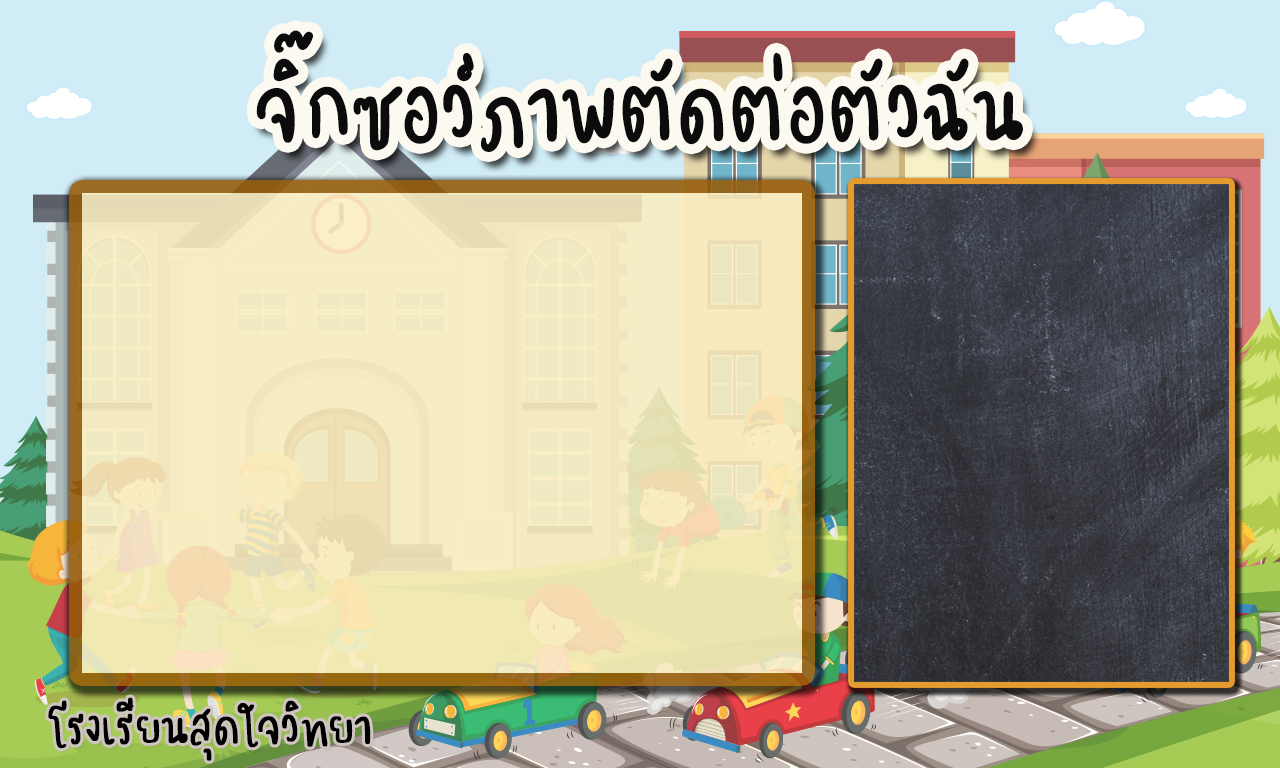
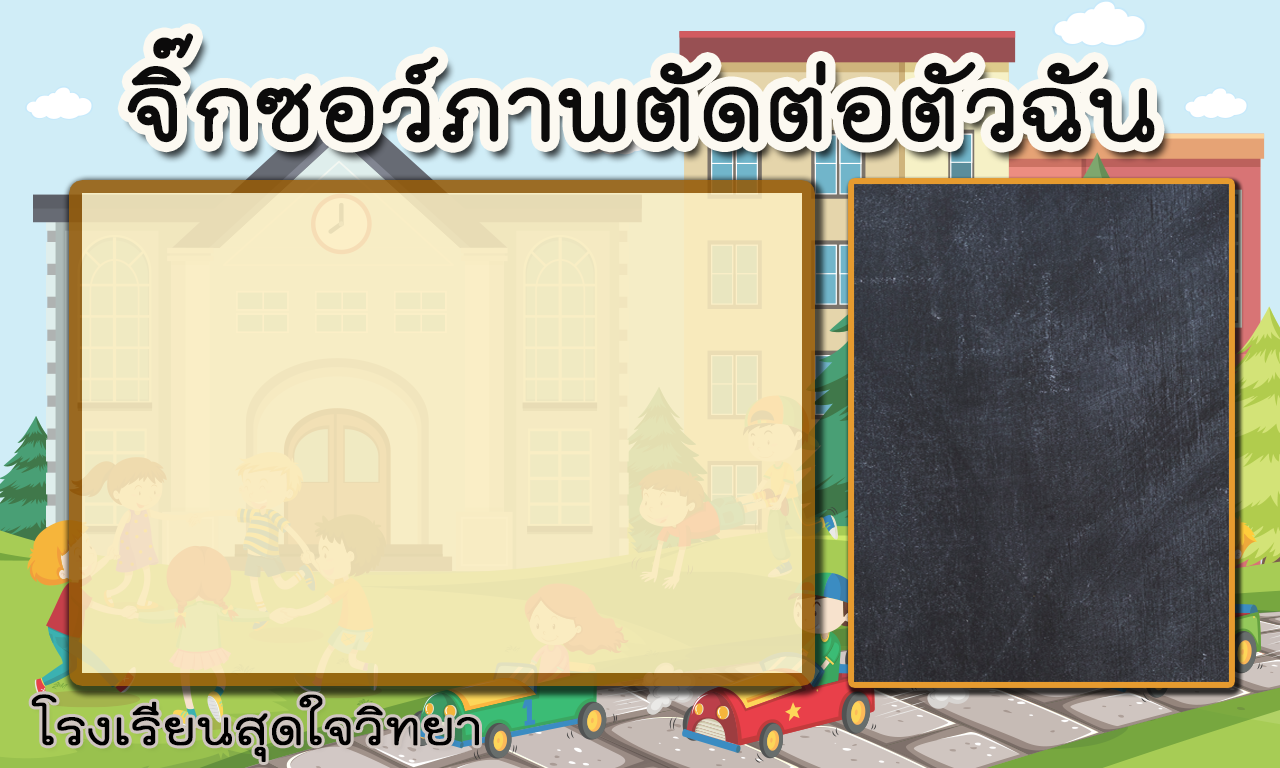
chage game bg

Changed region(s): [[0.0938, 0.0312, 0.9375, 0.2188], [0.0, 0.9062, 0.375, 1.0]]

diff --git a/data.js b/data.js
@@ -1,1 +1,1 @@
-{"project": [null,null,[[0,true,false,false,false,false,false,false,false,false],[1,false,true,true,true,true,true,true,false,false],[2,false,true,true,false,true,true,true,true,true],[3,false,true,true,true,true,true,true,true,false]],[["t0",3,false,[],0,0,null,[["Default",5,false,1,0,false,332389915826523,[["images/bggame-sheet0.png",623556,0,0,1280,768,1,0,0,[],[],1]]]],[],false,false,888266107767164,[],null],["t1",3,false,[],0,0,null,[["Default",5,false,1,0,false,229884536046243,[["images/jigsaw-sheet0.png",59582,0,0,436,422,1,0.5,0.5,[],[-0.3876149952411652,-0.3838860094547272,0,-0.3886260092258453,0.2477059960365295,-0.2393360137939453,0.3784400224685669,0,0.3577979803085327,0.3530809879302979,0,0.3696680068969727,-0.3325690031051636,0.3270140290260315,-0.2637609839439392,0],0]]]],[],false,false,863295889684278,[],null],["t2",3,false,[],0,0,null,[["Default",5,false,1,0,false,265789542132850,[["images/pic-sheet0.png",73572,0,0,720,480,1,0,0,[["Imagepoint 1",0.5,0.5]],[],1]]]],[],false,false,398190928270537,[],null],["t3",1,false,[567485115298409,244408598076211],1,0,["images/canvas.png",168,3],null,[["DragDrop",4,919386414831374]],false,false,267409529616762,[],null],["t4",2,false,[],0,0,["images/particles.png",1448,0],null,[],false,false,972450819936154,[],null],["t5",0,false,[],0,0,null,null,[],false,false,926822867017334,[],null,[0,0,0,1,1,600,600,10000,1]]],[],[["Layout 1",1280,768,false,"Event sheet 1",317441235527641,[["bg",0,578107584429891,true,[255,255,255],false,1,1,1,false,false,1,0,0,[[[0,0,0,1280,768,0,0,1,0,0,0,0,[]],0,0,[],[],[0,"Default",0,1]]],[]],["game",1,278427726210959,true,[255,255,255],true,1,1,1,false,false,1,0,0,[[[1049,432,0,384.6305236816406,372.0609130859375,0,0,1,0.5,0.5,0,0,[]],1,1,[],[],[0,"Default",0,1]],[[82,193,0,720,480,0,0,1,0,0,0,0,[]],2,2,[],[],[0,"Default",0,1]],[[838,-226,0,240,240,0,0,1,0,0,0,0,[]],3,3,[[0],[0]],[[0,1]],[0,0,0]],[[631,-60,0,128,128,0,0,1,0,0.5,0,0,[]],4,4,[],[],[50,360,1,400,50,100,0,0,0,0,0,0,-150,0,0,800,0,0,1]]],[]]],[],[]]],[["Event sheet 1",[[1,"num",0,0,false,false,484218152803947,false],[1,"startY",0,0,false,false,769374700921660,false],[1,"startX",0,0,false,false,325927587525086,false],[0,null,false,null,803033900714681,[[-1,5,null,1,false,false,false,757634853594792,false]],[[3,6,null,855240727496573,false],[4,7,null,779177534188415,false],[-1,8,null,667487445942523,false,[[0,[0,2]]]],[2,9,null,151485048438837,false,[[3,0]]],[1,10,null,329925706288422,false]],[[0,null,false,null,621166894457610,[[-1,11,null,0,true,false,false,161808111676392,false,[[1,[2,""]],[0,[0,0]],[0,[0,5]]]]],[[-1,12,null,685260417379472,false,[[4,3],[5,[2,"game"]],[0,[4,[20,2,13,false,null],[6,[0,240],[8,[19,14],[0,3]]]]],[0,[4,[20,2,15,false,null],[6,[0,240],[19,16,[[7,[19,14],[0,3]]]]]]]]],[3,17,null,756858319962644,false,[[5,[2,"game"]]]],[3,18,null,466494017104375,false,[[0,[4,[0,880],[19,19,[[0,100]]]]],[0,[4,[0,220],[19,19,[[0,210]]]]]]],[3,20,null,635229859605080,false,[[10,0],[7,[19,14]]]]]]]],[0,null,false,null,741613503384959,[[3,21,"DragDrop",1,false,false,false,726751357302335,false]],[[-1,22,null,773407567207414,false,[[11,"startX"],[7,[20,3,23,false,null]]]],[-1,22,null,560618447466352,false,[[11,"startY"],[7,[20,3,24,false,null]]]],[3,25,null,611612006950892,false]]],[0,null,false,null,967257820801414,[[3,26,"DragDrop",1,false,false,false,514915044384333,false]],[],[[0,null,false,null,653560241149262,[[-1,27,null,0,false,false,false,516035989145538,false,[[7,[19,28,[[5,[4,[20,2,13,false,null],[6,[0,240],[8,[21,3,false,null,0],[0,3]]]],[20,3,23,false,null]]]]],[8,3],[7,[0,30]]]],[-1,27,null,0,false,false,false,562821136595246,false,[[7,[5,[19,28,[[7,[21,3,false,null,0],[0,2]]]],[20,3,24,false,null]]],[8,3],[7,[0,30]]]],[3,29,null,0,false,true,false,267031548115053,false,[[10,1]]]],[[3,18,null,420995169914125,false,[[0,[4,[20,2,13,false,null],[6,[0,240],[8,[21,3,false,null,0],[0,3]]]]],[0,[4,[20,2,15,false,null],[6,[0,240],[19,16,[[7,[21,3,false,null,0],[0,3]]]]]]]]],[3,30,null,171525185204412,false,[[10,1],[3,1]]],[-1,31,null,218089129009009,false,[[11,"num"],[7,[0,1]]]]]],[0,null,false,null,862575775775572,[[-1,32,null,0,false,false,false,167651039337809,false]],[[3,18,null,376021428677996,false,[[0,[23,"startX"]],[0,[23,"startY"]]]]]]]],[0,null,false,null,816762815174112,[[3,21,"DragDrop",1,false,false,false,361256418661930,false],[3,29,null,0,false,false,false,667881972358739,false,[[10,1]]]],[[3,33,"DragDrop",922402493854819,false]]],[0,null,false,null,309666066212423,[[-1,34,null,0,false,false,false,741181620200860,false,[[11,"num"],[8,0],[7,[0,6]]]],[-1,35,null,0,false,false,false,231814082286742,false]],[[2,36,null,901896167434460,false,[[4,4],[5,[2,"game"]],[7,[0,1]]]],[5,37,null,793884111743998,false,[[2,["5c3c9e2f9c065",false]],[3,0],[0,[0,0]],[1,[2,""]]]]]]]]],[["5c3c9e2f9c065.m4a",56881],["5c3c9e2f9c065.ogg",65908]],"media/",false,1280,768,4,true,true,true,"1.0.0.0",true,false,4,0,6,false,true,1,true,"New project",0,[]]}
+{"project": [null,null,[[0,true,false,false,false,false,false,false,false,false],[1,false,true,true,true,true,true,true,false,false],[2,false,true,true,false,true,true,true,true,true],[3,false,true,true,true,true,true,true,true,false]],[["t0",3,false,[],0,0,null,[["Default",5,false,1,0,false,332389915826523,[["images/bggame-sheet0.png",634274,0,0,1280,768,1,0,0,[],[],1]]]],[],false,false,888266107767164,[],null],["t1",3,false,[],0,0,null,[["Default",5,false,1,0,false,229884536046243,[["images/jigsaw-sheet0.png",59582,0,0,436,422,1,0.5,0.5,[],[-0.3876149952411652,-0.3838860094547272,0,-0.3886260092258453,0.2477059960365295,-0.2393360137939453,0.3784400224685669,0,0.3577979803085327,0.3530809879302979,0,0.3696680068969727,-0.3325690031051636,0.3270140290260315,-0.2637609839439392,0],0]]]],[],false,false,863295889684278,[],null],["t2",3,false,[],0,0,null,[["Default",5,false,1,0,false,265789542132850,[["images/pic-sheet0.png",73572,0,0,720,480,1,0,0,[["Imagepoint 1",0.5,0.5]],[],1]]]],[],false,false,398190928270537,[],null],["t3",1,false,[567485115298409,244408598076211],1,0,["images/canvas.png",168,3],null,[["DragDrop",4,919386414831374]],false,false,267409529616762,[],null],["t4",2,false,[],0,0,["images/particles.png",1448,0],null,[],false,false,972450819936154,[],null],["t5",0,false,[],0,0,null,null,[],false,false,926822867017334,[],null,[0,0,0,1,1,600,600,10000,1]]],[],[["Layout 1",1280,768,false,"Event sheet 1",317441235527641,[["bg",0,578107584429891,true,[255,255,255],false,1,1,1,false,false,1,0,0,[[[0,0,0,1280,768,0,0,1,0,0,0,0,[]],0,0,[],[],[0,"Default",0,1]]],[]],["game",1,278427726210959,true,[255,255,255],true,1,1,1,false,false,1,0,0,[[[1049,432,0,384.6305236816406,372.0609130859375,0,0,1,0.5,0.5,0,0,[]],1,1,[],[],[0,"Default",0,1]],[[82,193,0,720,480,0,0,1,0,0,0,0,[]],2,2,[],[],[0,"Default",0,1]],[[838,-226,0,240,240,0,0,1,0,0,0,0,[]],3,3,[[0],[0]],[[0,1]],[0,0,0]],[[631,-60,0,128,128,0,0,1,0,0.5,0,0,[]],4,4,[],[],[50,360,1,400,50,100,0,0,0,0,0,0,-150,0,0,800,0,0,1]]],[]]],[],[]]],[["Event sheet 1",[[1,"num",0,0,false,false,484218152803947,false],[1,"startY",0,0,false,false,769374700921660,false],[1,"startX",0,0,false,false,325927587525086,false],[0,null,false,null,803033900714681,[[-1,5,null,1,false,false,false,757634853594792,false]],[[3,6,null,855240727496573,false],[4,7,null,779177534188415,false],[-1,8,null,667487445942523,false,[[0,[0,2]]]],[2,9,null,151485048438837,false,[[3,0]]],[1,10,null,329925706288422,false]],[[0,null,false,null,621166894457610,[[-1,11,null,0,true,false,false,161808111676392,false,[[1,[2,""]],[0,[0,0]],[0,[0,5]]]]],[[-1,12,null,685260417379472,false,[[4,3],[5,[2,"game"]],[0,[4,[20,2,13,false,null],[6,[0,240],[8,[19,14],[0,3]]]]],[0,[4,[20,2,15,false,null],[6,[0,240],[19,16,[[7,[19,14],[0,3]]]]]]]]],[3,17,null,756858319962644,false,[[5,[2,"game"]]]],[3,18,null,466494017104375,false,[[0,[4,[0,880],[19,19,[[0,100]]]]],[0,[4,[0,220],[19,19,[[0,210]]]]]]],[3,20,null,635229859605080,false,[[10,0],[7,[19,14]]]]]]]],[0,null,false,null,741613503384959,[[3,21,"DragDrop",1,false,false,false,726751357302335,false]],[[-1,22,null,773407567207414,false,[[11,"startX"],[7,[20,3,23,false,null]]]],[-1,22,null,560618447466352,false,[[11,"startY"],[7,[20,3,24,false,null]]]],[3,25,null,611612006950892,false]]],[0,null,false,null,967257820801414,[[3,26,"DragDrop",1,false,false,false,514915044384333,false]],[],[[0,null,false,null,653560241149262,[[-1,27,null,0,false,false,false,516035989145538,false,[[7,[19,28,[[5,[4,[20,2,13,false,null],[6,[0,240],[8,[21,3,false,null,0],[0,3]]]],[20,3,23,false,null]]]]],[8,3],[7,[0,30]]]],[-1,27,null,0,false,false,false,562821136595246,false,[[7,[5,[19,28,[[7,[21,3,false,null,0],[0,2]]]],[20,3,24,false,null]]],[8,3],[7,[0,30]]]],[3,29,null,0,false,true,false,267031548115053,false,[[10,1]]]],[[3,18,null,420995169914125,false,[[0,[4,[20,2,13,false,null],[6,[0,240],[8,[21,3,false,null,0],[0,3]]]]],[0,[4,[20,2,15,false,null],[6,[0,240],[19,16,[[7,[21,3,false,null,0],[0,3]]]]]]]]],[3,30,null,171525185204412,false,[[10,1],[3,1]]],[-1,31,null,218089129009009,false,[[11,"num"],[7,[0,1]]]]]],[0,null,false,null,862575775775572,[[-1,32,null,0,false,false,false,167651039337809,false]],[[3,18,null,376021428677996,false,[[0,[23,"startX"]],[0,[23,"startY"]]]]]]]],[0,null,false,null,816762815174112,[[3,21,"DragDrop",1,false,false,false,361256418661930,false],[3,29,null,0,false,false,false,667881972358739,false,[[10,1]]]],[[3,33,"DragDrop",922402493854819,false]]],[0,null,false,null,309666066212423,[[-1,34,null,0,false,false,false,741181620200860,false,[[11,"num"],[8,0],[7,[0,6]]]],[-1,35,null,0,false,false,false,231814082286742,false]],[[2,36,null,901896167434460,false,[[4,4],[5,[2,"game"]],[7,[0,1]]]],[5,37,null,793884111743998,false,[[2,["5c3c9e2f9c065",false]],[3,0],[0,[0,0]],[1,[2,""]]]]]]]]],[["5c3c9e2f9c065.m4a",56881],["5c3c9e2f9c065.ogg",65908]],"media/",false,1280,768,4,true,true,true,"1.0.0.0",true,false,4,0,6,false,true,1,true,"New project",0,[]]}

diff --git a/offline.js b/offline.js
@@ -1,5 +1,5 @@
 {
-	"version": 1589375634,
+	"version": 1589637150,
 	"fileList": [
 		"data.js",
 		"c2runtime.js",
